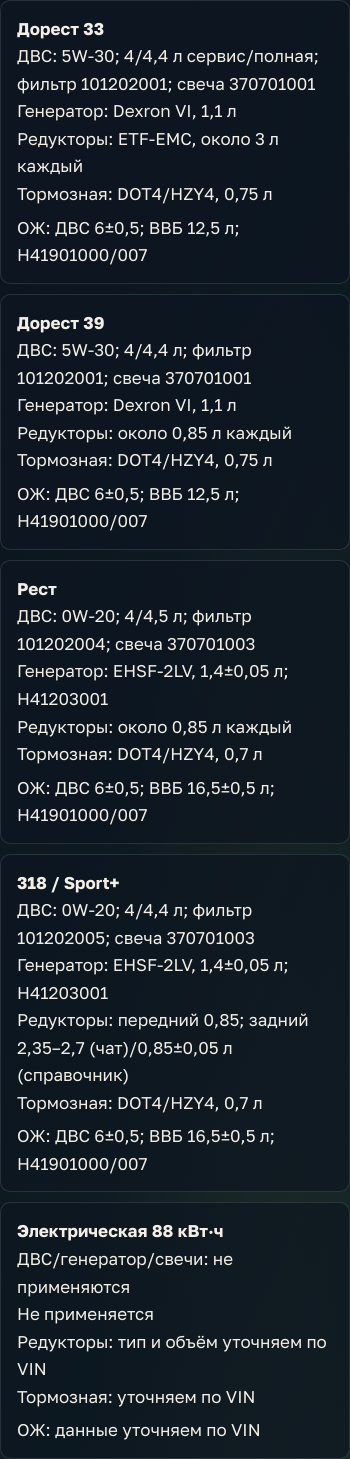
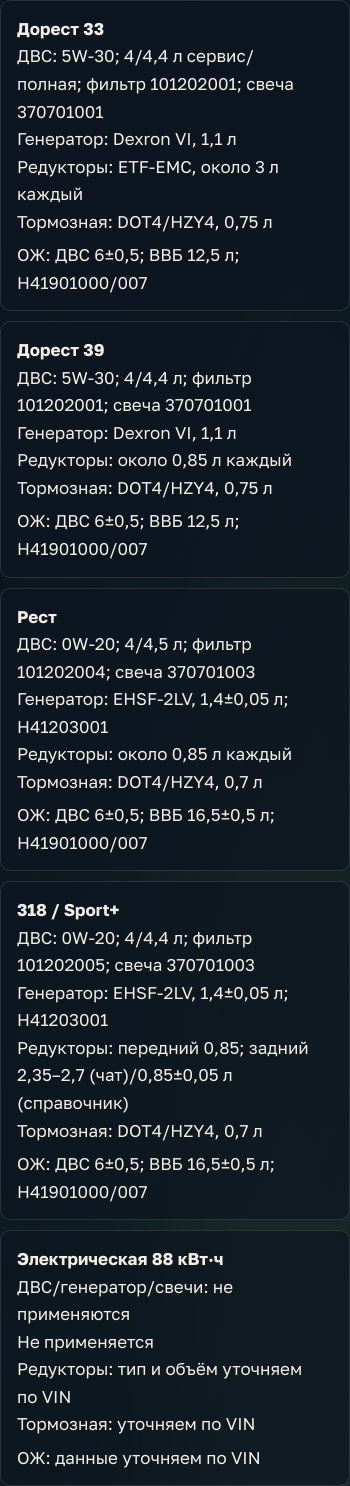
Address final A8 review feedback

diff --git a/site/src/styles/voyah.css b/site/src/styles/voyah.css
@@ -413,7 +413,6 @@ body[data-preview="true"]{--demo-h:40px}
   .v-tbl td{padding:0;border:0;text-align:left !important}
   .v-tbl td:first-child{font-weight:500;font-size:var(--v-fs-3)}
   .v-tbl td:last-child{margin-top:6px}
-  .v-sec--parts .v-tbl td:last-child{white-space:normal}
   .v-tbl td b{font-size:22px}
   .v-tbl .sub{display:block;font-size:12.5px;margin-top:2px}
 }

diff --git a/content/merged-r28/a8/voyah-free.md b/content/merged-r28/a8/voyah-free.md
@@ -38,11 +38,9 @@
 
 <!-- блок: hero -->
 
-## Страница `/voyah-free`
-
 # ТО Voyah Free в Ростове-на-Дону на Портовой, 439
 
-Более трёх лет обслуживаем Voyah Free в Ростове-на-Дону. По VIN уточняем исполнение и состав работ. Масло и фильтры — 2000 ₽ за работу, без запчастей; остальные суммы — в прайсе. Ежедневно, 9:00–19:00, Портовая, 439.
+Более трёх лет обслуживаем Voyah Free в Ростове-на-Дону. Исполнение и материалы сверим по VIN. Масло и фильтры — 2000 ₽ за работу, без запчастей; остальные цены — в прайсе. Ежедневно 9:00–19:00, Портовая, 439.
 
 **Кнопки:** Записаться на ТО · Позвонить
 
@@ -50,11 +48,11 @@
 
 ## Почему Voyah Free — это не обычное ТО
 
-Исполнения различаются по жидкостям, объёмам и деталям. Сведения справочника сообщества расходятся и не заменяют заводские документы: сверяем VIN и историю. Для 88 кВт·ч без ДВС масла двигателя, генератора и свечи не нужны; тяговую электрическую систему не обслуживаем.
+Исполнения отличаются по жидкостям, объёмам и деталям. Справочник сообщества — не заводская инструкция; сверяем VIN и историю. На 88 кВт·ч без ДВС масло двигателя, генератор и свечи не нужны; тяговую систему не обслуживаем.
 
 ### Смотрим не только масло
 
-Справочник сообщества указывает для генератора 1,1 л Dexron VI на доресте и 1,4±0,05 л EHSF-2LV для рест/318 (H41203001). Охлаждение: ДВС — 6±0,5 л; контур ВВБ — 12,5 л дорест или 16,5±0,5 л рест/318; указаны H41901000 и H41901007. Это справочные данные, не заводская инструкция; работу с тяговой электрической системой не выполняем.
+Данные справочника сообщества: генератор — Dexron VI, 1,1 л дорест; EHSF-2LV, 1,4±0,05 л рест/318 (H41203001). ОЖ: ДВС — 6±0,5 л; ВВБ — 12,5 л дорест и 16,5±0,5 л рест/318 (H41901000/007). Не заводской регламент; тяговую систему не обслуживаем.
 
 <!-- блок: service-groups -->
 
@@ -62,27 +60,27 @@
 
 ### ТО и жидкости
 
-Работы с ДВС, генератором и редукторами — отдельные; состав и материалы сверим по VIN.
+ДВС, генератор и редукторы — отдельные работы; материалы подберём по VIN.
 
 ### Тормоза
 
-Осматриваем колодки и диски по осям; работы согласуем.
+Осматриваем колодки и диски по осям; смету согласуем.
 
 ### Двигатель
 
-В прайсе — свечи и прокладка клапанной крышки.
+Прайс включает свечи и прокладку клапанной крышки.
 
 ### Подвеска и рулевое
 
-Проверяем ходовую и рулевые элементы; замену согласуем.
+Проверяем ходовую; замену согласуем.
 
 ### Диагностика
 
-Объясним результат и стоимость диагностики до работ.
+Поясним результат и цену диагностики до работ.
 
 ### Прайс на работы
 
-Цены — за работу, без запчастей; порядок и суммы — по прайсу.
+Цены за работу, без запчастей; прайс — ниже.
 
 | Группа | Работа | Цена |
 |---|---|---:|
@@ -108,13 +106,22 @@
 
 Это темы чата, не статистика неисправностей. Жалоба — не диагноз; проверяем машину.
 
-- **Не заводится, сел 12-вольтовый аккумулятор.** Владельцы связывают случаи с глубоким разрядом; после замены у одного оставалась ошибка [msg 728897, 769325]. Проверяем аккумулятор, соединения и утечку тока.
-- **Загорелся Check Engine после заправки.** В чате описаны случаи сразу и через 100 км; причина не установлена, смена топлива помогла одному владельцу [msg 558926, 847834]. Сначала считываем коды и условия появления, не просто сбрасываем ошибку.
-- **Внутренняя передняя колодка изнашивается быстрее.** В сообщениях есть износ к 15–17 тыс. км; реагенты и рекуперация — версии владельцев, не установленная причина [msg 940079, 911388]. Сравниваем внутреннюю и наружную колодки с обеих сторон, диски и направляющие.
-- **Хруст или щелчки при повороте руля.** Владельцы называли крепёж рейки, соединение вала, мотор усилителя, сайлентблоки и тяги; единой причины нет [msg 810940, 987164, 1071295]. Проверяем крепления и люфты, рейку заранее не приговариваем.
-- **Стук сзади на неровностях.** Обсуждались амортизаторы, но есть сообщение, что их замена не устранила звук [msg 747948, 818780, 809740]. Осматриваем стойки, крепления и другие элементы, затем проверяем на ходу.
-- **Гул колеса или редуктора.** Ступичные подшипники меняли на 9–21 тыс. км; отдельные сообщения о гуле редуктора/подшипника электромотора — на 61–80 тыс. км [msg 764987, 941722, 941871, 1381578]. Проверяем люфт и вращение колеса, локализуем источник до замены.
+- **Не заводится, сел 12-вольтовый аккумулятор.** Владельцы отмечали глубокий разряд; после замены у одного осталась ошибка. Проверяем аккумулятор, соединения и утечку тока.
+- **Загорелся Check Engine после заправки.** В чате описывали ошибку сразу или примерно через 100 км; причина не установлена. Смена топлива помогла одному владельцу, но связь не доказана. Считываем коды и условия появления.
+- **Внутренняя передняя колодка изнашивается быстрее.** Владельцы описывали ускоренный износ и равномерный. Реагенты и рекуперация — версии, не подтверждённая причина. Сравниваем колодки с обеих сторон, диски и направляющие.
+- **Хруст или щелчки при повороте руля.** Владельцы связывали звук с рейкой, валом, усилителем, сайлентблоками или тягами; общей причины нет. Проверяем крепёж и люфты, рейку заранее не приговариваем.
+- **Стук сзади на неровностях.** Амортизаторы называют одной из версий, но их замена не всегда устраняла стук. Осматриваем стойки, крепления и соседние элементы, затем проверяем на ходу.
+- **Гул колеса или редуктора.** Владельцы сообщали о замене ступичных подшипников на 9–21 тыс. км, а о гуле редуктора/подшипника электромотора — на 61–80 тыс. км. Это отдельные случаи, не норма отказа. Локализуем источник до замены.
 
+
+## Что проверим на осмотре
+
+При осмотре по согласованному объёму проверяем:
+
+- **Ремни и патрубки.** Проверяем трещины, потёртости и ослабленные хомуты; находки обсуждаем до работ.
+- **Подтёки и соединения.** Проверяем следы жидкости на редукторах, сальниках и соединениях приводов.
+- **Шины и давление.** Проверяем давление, протектор и износ; сверяем с табличкой автомобиля.
+- **Тормоза по осям.** Сравниваем износ колодок и дисков по осям.
 
 <!-- блок: parts -->
 
@@ -129,13 +136,16 @@
 <tr><th>318 / Sport+</th><td>ДВС: 0W-20; 4/4,4 л; фильтр 101202005; свеча 370701003</td><td>Генератор: EHSF-2LV, 1,4±0,05 л; H41203001</td><td>Редукторы: передний 0,85; задний 2,35–2,7 (чат)/0,85±0,05 л (справочник)</td><td>Тормозная: DOT4/HZY4, 0,7 л</td><td>ОЖ: ДВС 6±0,5; ВВБ 16,5±0,5 л; H41901000/007</td></tr>
 <tr><th>Электрическая 88 кВт·ч</th><td>ДВС/генератор/свечи: не применяются</td><td>Не применяется</td><td>Редукторы: тип и объём уточняем по VIN</td><td>Тормозная: уточняем по VIN</td><td>ОЖ: данные уточняем по VIN</td></tr></table>
 
-Интервалы сообщества спорят: ДВС — 10 тыс. км по пробегу ДВС/год против общего пробега; редукторы — 30/40/60/80 тыс. км. Для заднего редуктора 318 сообщения дают 2,35–2,7 л, справочник — 0,85±0,05 л.
+Интервалы сообщества расходятся: ДВС — 10 тыс. км по пробегу ДВС или год, либо общий; редукторы — 30/40/60/80 тыс. км. Задний 318: чат — 2,35–2,7 л, справочник — 0,85±0,05 л.
 
 <!-- блок: visit-steps -->
 
 ## Как проходит визит
 
-Осмотр → смета до начала → согласованные работы. Дополнительные позиции — только после согласия.
+1. **Заявка.** Позвоните или оставьте заявку. Уточним задачу и подскажем время визита.
+2. **Осмотр и диагностика.** Осматриваем автомобиль, при необходимости проверяем ходовую. Диагностика ходовой — 1500 ₽ за работу.
+3. **Смета и согласование.** Объясним результаты и назовём цены. Начинаем только после вашего согласия.
+4. **Работы и выдача.** Выполним согласованный объём, объясним результат и оформим заказ-наряд. Дополнительные работы согласуем отдельно.
 
 <!-- блок: faq -->
 
@@ -143,63 +153,51 @@
 
 ### Чем отличаются исполнения Voyah Free при подборе расходников?
 
-Справочник сообщества разделяет дорест 33, дорест 39, рест и 318/Sport+: расходники и объёмы отличаются. Это не заводская спецификация; сверим VIN, а неподтверждённое обозначим «уточняем по VIN».
-
+Справочник сообщества разделяет дорест 33/39, рест и 318/Sport+: расходники и объёмы отличаются. Это не заводская спецификация. Сверим VIN; неизвестное уточним по документам автомобиля.
 ### Какое масло нужно двигателю?
 
-Справочник сообщества указывает 5W-30 для дореста и 0W-20 для реста и 318; владельцы расходятся по ресту и допускам. Это не заводская инструкция: сверим VIN и документы конкретной машины до заказа.
-
+Справочник указывает 5W-30 для дореста и 0W-20 для реста/318; владельцы спорят о ресте и допусках. Это не заводская инструкция: сверим VIN и документы конкретной машины перед заказом.
 ### Сколько масла входит в двигатель?
 
-Справочник указывает 4 л при сервисной замене и 4,4/4,5 л при полной, по версии; владельцы называют также 4 и 4,5 л. Не заливаем по общей цифре: сверим VIN и проверим уровень по подходящей процедуре.
-
+Справочник указывает 4 л при сервисной замене и 4,4/4,5 л при полной, по версии; владельцы называют другие цифры. Сверим VIN и проверим уровень по подходящей процедуре для этой машины.
 ### Какое масло и сколько нужно генераторной установке?
 
-Справочник указывает для дореста Dexron VI, около 1,1 л, для рест и 318 — EHSF-2LV, около 1,4 л. Тип и интервал спорны; Dexron VI для рест не подтверждён. Подбор выполняем только по VIN.
-
+Справочник указывает доресту Dexron VI, около 1,1 л, ресту/318 — EHSF-2LV, около 1,4 л. Тип и интервал спорны; Dexron VI для реста не подтверждён. Подбираем по VIN конкретной машины.
 ### Сколько масла нужно в редукторы?
 
-Справочник даёт около 3 л на редуктор дореста 33 и около 0,85 л для других версий. Для заднего редуктора 318 чат приводит 2,35–2,7 л, справочник — 0,85±0,05. Уточняем по VIN, не по общему названию модели.
-
+Справочник даёт около 3 л на редуктор дореста 33 и около 0,85 л для других версий. Для заднего 318 чат приводит 2,35–2,7 л, справочник — 0,85±0,05. Точный объём уточним по VIN до начала работ.
 ### Какой интервал замены масел считать правильным?
 
-Справочник даёт ДВС 10 тыс. км по пробегу ДВС или год; владельцы спорят, считать по ДВС или общему. Редукторы: 30/40/60/80 тыс. км; интервал генератора тоже спорен. Это не заводской регламент; сверим документы.
-
+Справочник для ДВС указывает 10 тыс. км по пробегу ДВС или год; владельцы спорят об отсчёте. Редукторы — 30/40/60/80 тыс. км; интервал генератора тоже спорный. Сверим документы автомобиля.
 ### Как подобрать охлаждающую жидкость?
 
-Справочник сообщества приводит LEC-II и альтернативы, но совместимость не подтверждена во всех случаях. Не выбираем только по цвету: сверим VIN, контур и документы; сомнительное отметим «уточняем по VIN».
-
+Справочник приводит LEC-II и альтернативы, но совместимость спорна. Не выбираем по цвету: сверим VIN и контур с документами; неизвестное обозначим «уточняем по VIN» для конкретной машины.
 ### Когда менять тормозную жидкость?
 
-Справочник сообщества указывает 20 тыс. км или два года; другие сообщения называют 30 тыс. км либо оценку состояния. Не выдаём число за заводской интервал. Проверим состояние и документы; цену назовём до начала.
-
+Справочник указывает 20 тыс. км или два года; другие владельцы называют 30 тыс. км либо оценку состояния. Это не заводской интервал. Проверим жидкость и документы; цену назовём до начала.
 ### Какие свечи подходят?
 
-Справочник указывает разные номера для дореста и рест/318, но единого артикула нет. Аналоги, зазор и момент нельзя назначить универсально. Сверим VIN и двигатель; неподтверждённое уточняем по VIN.
-
+Справочник даёт разные номера свечей для дореста и рест/318; единый аналог, зазор и момент не подтверждены. Сверим VIN и двигатель, неизвестное уточним по документам автомобиля для этой машины.
 ### Что проверяют, если быстрее стирается внутренняя колодка?
 
-Владельцы сообщали об ускоренном износе внутренней передней колодки, но есть и контрпримеры. Сравним колодки слева/справа, осмотрим диск и направляющие. Работы и цену согласуем после проверки.
-
+Владельцы отмечали быстрый износ внутренней колодки, но сообщали и о равномерном. Сравним колодки с обеих сторон, осмотрим диски и направляющие. Вывод объясним до согласования работ.
 ### Что проверять при хрусте или щелчках при повороте руля?
 
-В чате называли крепёж рейки, соединение вала, мотор усилителя, тяги и сайлентблоки; единой причины нет. Проверим люфты и доступные соединения, затем объясним результат. Рейку по одному звуку не заказывайте.
-
+Щелчки связывали с крепежом рейки, валом, усилителем, тягами и сайлентблоками; единой причины нет. Проверим люфты и соединения, объясним результат. Рейку по одному звуку не меняют.
 ### Как понять, что гудит ступичный подшипник?
 
-Владельцы описывали гул ступиц, но похожий шум связывали с редуктором или электромотором. Уточним условия, проверим колёса, люфт и источник шума. Диагноз по описанию не ставим; ходовая — 1500 ₽ за работу.
-
+Владельцы описывали гул ступиц, но похожий шум связывали с редуктором или электромотором. Уточним условия, проверим люфт и источник. Диагноз по переписке не ставим; ходовая — 1500 ₽ за работу.
 ### Откуда может идти стук сзади?
 
-В обсуждениях называли задние амортизаторы, но их замена не всегда устраняла стук. Проверим амортизаторы, крепления и другие элементы. Расскажите, на каких неровностях возникает шум; смету согласуем после осмотра.
-
+Стук сзади связывали с амортизаторами, но замена не всегда устраняла шум. Осмотрим стойки и крепления; уточним, на каких неровностях слышно. Смету и работы согласуем заранее, до ремонта.
 ### Подходит ли этот прайс чистой электрической версии 88 кВт·ч?
 
-Масло ДВС, генераторной установки и свечи к машине без ДВС не относятся. Тип и объём масла редукторов для 88 в материалах сообщества не установлены. Уточним VIN и задачу; тяговую электрическую систему не обслуживаем.
-
+Масло ДВС, генератор и свечи к версии без ДВС не относятся. Тип и объём редукторов 88 кВт·ч не установлены в источниках сообщества. Уточним VIN и задачу; тяговую систему не обслуживаем.
 ### Сколько времени занимает ТО?
 
-Длительность зависит от работ и состояния машины; время сообщим после осмотра, часы заранее не обещаем. Мы не официальный дилер Voyah и не обещаем сохранение заводской гарантии; её условия уточняйте у продавца. Работы перечислим в заказ-наряде, цены за работу без деталей согласуем до начала.<!-- блок: seo -->
+Срок зависит от работ и состояния; время назовём после осмотра, часы заранее не обещаем. Мы не официальный дилер и не обещаем сохранение заводской гарантии; условия уточняйте у продавца. Работы согласуем до начала.
+
+<!-- блок: seo -->
 
 ## SEO
 

diff --git a/docs/reports/r68-voyah-page/report.md b/docs/reports/r68-voyah-page/report.md
@@ -5,10 +5,11 @@
 ## Исправления по ревью
 
 - В `content/merged-r28/a8/voyah-free.md` и `site/src/pages/voyah-free.astro` ссылки заменены на требуемые A9 slugs: `/news/to-voyah-free-reglament`, `/news/maslo-voyah-free`, `/news/voyah-free-bolezni`. После мержа PR #14 маршруты подтверждены в базе и прошли проверку локальных ссылок.
-- Добавлен раздел «Что чаще всего беспокоит владельцев» с шестью темами: аккумулятор 12 В, Check Engine после заправки, износ внутренней передней колодки, щелчки рулевого управления, стук сзади, гул колеса/редуктора/подшипника электромотора. В каждом пункте есть симптом, атрибутивно изложенные версии сообщества и действие при осмотре. Это не статистика отказов и не диагноз по переписке.
+- Добавлен раздел «Что чаще всего беспокоит владельцев» с шестью темами: аккумулятор 12 В, Check Engine после заправки, износ внутренней передней колодки, щелчки рулевого управления, стук сзади, гул колеса/редуктора/подшипника электромотора. Публичный текст передаёт владельческие сообщения без служебных `[msg …]` ссылок; причины обозначены как версии/описанные случаи, не как установленный диагноз. Проверка собранного основного текста не находит таких ссылок.
+- Следом возвращён отдельный список «Что проверим на осмотре»: ремни/патрубки, подтёки/соединения, шины/давление и тормоза по осям. Markdown и Astro показывают одинаковые четыре пункта. В Markdown также восстановлены все четыре этапа визита в том же порядке и с тем же текстом, что на странице.
 - Изменён видимый блок «Смотрим не только масло»: добавлены данные сообщества о генераторе, двух контурах охлаждения и артикулах; отдельно сохранено ограничение сервиса по тяговой электрической системе.
 - Таблица теперь содержит объёмы масла ДВС (сервисная/полная замена), фильтры, свечи, генератор, редукторы, тормозную жидкость и оба контура охлаждения по пяти исполнениям. В ячейках есть текстовые подписи «ДВС», «Генератор», «Редукторы», «Тормозная», «ОЖ»: на мобильном они остаются видны при скрытой шапке таблицы.
-- В таблице показаны коды `H41203001`, `H41901000` и `H41901007`; точная применимость остаётся VIN-зависимой. По заднему редуктору 318 значения даны парой, без выбора одного.
+- В таблице показаны коды `H41203001`, `H41901000` и `H41901007`; точная применимость остаётся VIN-зависимой. По заднему редуктору 318 значения даны парой, без выбора одного. Отступы колонок расходников теперь оформлены scoped-стилем внутри `voyah-free.astro`; `site/src/styles/voyah.css` не входит в итоговый diff относительно A9-базы. Измеренный зазор текста между колонками — минимум 20,1 px на 1440 и 20 px на 1024. На 390 px карточки сохраняют подписи и не создают горизонтального переполнения страницы.
 - Title изменён на «Voyah Free: регламент масел и цены на ТО». На первом экране добавлена подтверждённая цена работы с маслом и фильтрами — 2 000 ₽, отдельно указано «без запчастей». FAQ остаётся из 15 вопросов; в ответе про время нет обещания сроков, вопрос и ответ о заводской гарантии не обещают её сохранение.
 - Прайс оставлен в прежнем порядке и суммах: 15 строк.
 
@@ -48,9 +49,9 @@
 
 | Метрика | До (база `5a9aeac`) | После исправлений |
 |---|---:|---:|
-| Слова на странице | 1 017 | 1 358 |
+| Слова на странице | 1 054 | 1 334 |
 | FAQ | 6 | 15 |
-| Объём по content gate, без пробелов | 6 053 | 7 967 |
+| Объём по content gate, без пробелов | 6 053 | 7 990 |
 | Title | 42 знака | 40 знаков |
 | Description | 153 знака | 158 знаков |
 
@@ -61,8 +62,9 @@
 - `npm run typecheck` — PASS.
 - `BG3D=voyah-free BG3D_DEMO=1 npm run build:pages` — PASS; экспортировано 26 публичных страниц и 404.
 - `node scripts/check-pages.mjs` — PASS: 30 страниц, 2 208 локальных ссылок и ресурсов; три ссылки на A9 разрешаются.
-- `node scripts/check-voyah-content.mjs` — PASS: 7 967 знаков без пробелов, 15 FAQ, 15 строк прайса.
+- `node scripts/check-voyah-content.mjs` — PASS: 7 990 знаков без пробелов, 15 FAQ, 15 строк прайса.
 - `node scripts/check-voyah-content.mjs --self-test` — PASS: 15/15 мутантов.
-- `LD_LIBRARY_PATH=/tmp/al2023/lib node scripts/check-voyah-layout.mjs` — **не полностью пройдено**. Замеры первого экрана и шапки на 1024–1920, мобильные длительности и снятие шторки прошли; гейт сообщил 3 сбоя только в проверках интро: оверлей не появился на десктопном заходе, после мобильного снятия в DOM оставался canvas (390 и 360). Это поведение существующего интро, не относящееся к A8; его не меняли. Поэтому результат не записывается как полный PASS.
-- Для визуальной проверки собраны полновысотные скриншоты с `?intro=0`: `shots/voyah-free-1440x900-full.png` (1440×10 523), `shots/voyah-free-390x844-full.png` (390×17 757), и отдельный снимок всей мобильной таблицы `shots/voyah-free-390x844-table.png` (350×1 459). В мобильной таблице у всех значений видны текстовые подписи; CSS теперь разрешает перенос последнего поля, включая коды охлаждающей жидкости. Проверено в Chromium: горизонтального переполнения ячеек нет.
-- PR #15 остаётся открыт; после обновления локальная ветка должна быть отправлена в его существующую ветку. PR #15 не мержить.
+- `LD_LIBRARY_PATH=/tmp/al2023/lib node scripts/check-voyah-layout.mjs` — **не полностью пройдено**: повторились те же 3 сбоя интро (десктопный оверлей не появился; canvas остался после снятия на 390 и 360 px). Замеры первого экрана, меню и мобильного тайминга прошли. По подтверждению автора запроса, эти же три сбоя воспроизводятся на базе; интро в этой правке не менялось.
+- В собранном публичном HTML нет служебных ссылок `[msg …]` в разделе жалоб. Проверено в Chromium также: четыре этапа визита, четыре пункта осмотра, ширина документа на 390 px не превышает окно (390 px), а минимальный фактический зазор текста между колонками — 20,1 px при 1440 и 20 px при 1024.
+- Сняты полновысотные изображения с viewport 1440×900 и 390×844: `shots/voyah-free-1440x900-full.png` (1440×11 015) и `shots/voyah-free-390x844-full.png` (390×18 290). Таблица отдельно: `shots/voyah-free-1440x900-table.png` (1160×825) и `shots/voyah-free-390x844-table.png` (350×1 486).
+- PR #15 остаётся открыт; его не мержили.
